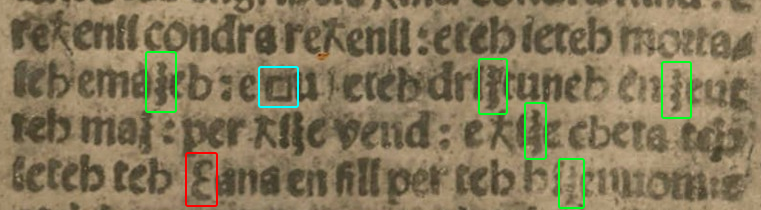
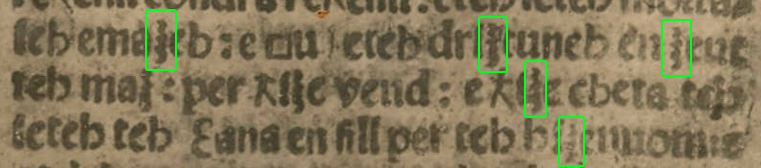
many more pictures

diff --git a/unicode/catholic.html b/unicode/catholic.html
@@ -78,7 +78,7 @@
 	<img src="img/cath/discussion/1555-buzuku-31r-hl.png" style="width:auto">
 	<img src="img/cath/discussion/1555-buzuku-44r-hl.png" style="width:auto">
 	<img src="img/cath/discussion/1555-buzuku-100v-hl.png" style="width:auto">
-	<figcaption>Buzuku (1555), folio 31r, 44r and 100v (left to right). Highlighted only ⟨<span class="misencoded">ξ</span>⟩, ⟨ɛ⟩ and ⟨в⟩. (Image source: BKSH)</figcaption>
+	<figcaption>Buzuku (1555), folio 31r, 44r and 100v (left to right). Highlighted only ⟨<span class="misencoded">ξ</span>⟩. (Image source: BKSH)</figcaption>
 </figure>
 <figure>
 	<img src="img/cath/discussion/1685-bogdani-nt-141-hl.png" style="width:auto">
@@ -86,8 +86,8 @@
 	<figcaption>Bogdani (1685), volume 2, page 141 (left) and page 146 (right), showing how while ⟨λ⟩ looks identical in the Albanian and Greek portions, the Albanian ⟨<span class="misencoded">ξ</span>⟩ and Greek ⟨ξ⟩ look very different. (Image source: BKSH)</figcaption>
 </figure>
 <figure>
-	<img src="img/cath/discussion/1685-bogdani-nt-alphabet.png" style="height: 25em; width: auto">
-	<img src="img/cath/discussion/1895-bashkimi-6.png" style="height: 25em; width: auto">
+	<img src="img/cath/discussion/1685-bogdani-nt-alphabet-hl.png" style="height: 25em; width: auto">
+	<img src="img/cath/discussion/1895-bashkimi-6-hl.png" style="height: 25em; width: auto">
 	<figcaption>Left, one of the last pages of Bogdani (1685), volume 2, calling ⟨<span class="misencoded">ξ</span>⟩ <i>ethe</i>, ⟨λ⟩ <i>λuλa</i>, ⟨ɛ⟩ <i>se</i> and ⟨ȣ⟩ <i>eu</i>. Also note the position in the alphabetical order matches Greek ⟨θ⟩ rather than ⟨ξ⟩. Right, <i>Abetari i qitun prej Shoqniet t’ Bashkimit t’ gjuhës shqype</i> (1895), page 6, comparing the new proposed orthography with the old symbols. (Image source: BKSH)</figcaption>
 </figure>
 <figure>
@@ -95,17 +95,26 @@
 	<figcaption>Domenico Pasi (1896), <i>Disa habere përmi apostollim t’ urats</i>, Shkodër: Catholic College Press, page 3. A <i>z</i> with a hook is employed regularly in bold-face, both in this and other short pamphlets published in the same period. Non-bold text keeps the usual form. (Image source: BKSH)</figcaption>
 </figure>
 <figure>
-	<img src="img/cath/discussion/1882-marcozzi-34.png" style="width:auto; height:7em">
-	<figcaption>Marcozzi (1882: 34). This work is an exceptional case, where the round-based variant is used for lowercase in the case of voiceless <i>th</i>, while the flat-based variant is employed for the voiced <i>dh</i>. Given that the main point of differentiation is still whether the letter is single or double, the round-based variant can be considered a contextual variant. (Image source: BKSH)</figcaption>
+	<img src="img/cath/discussion/1706-dalecce-156.png" style="width: auto; height: 9em">
+	<img src="img/cath/discussion/1845-guagliata-35.png" style="width: auto; height: 9em;">
+	<figcaption>The most common choice for capitalising the double letter was ⟨<span class="misencoded">Ξξ</span>⟩, here Da Lecce (1706: 156). However, ⟨<span class="misencoded">ΞΞ</span>⟩ is also attested, here Guagliata (1845: 35). (Image source: Google Books)</figcaption>
+</figure>
+<figure>
+	<img src="img/cath/discussion/1882-marcozzi-34.png" style="width:auto; height:9em">
+	<img src="img/cath/discussion/1882-marcozzi-358.png" style="width:auto; height:9em">
+	<img src="img/cath/discussion/1882-marcozzi-375.png" style="width:auto; height:9em">
+	<figcaption>Marcozzi (1882: 34, 358, 375). [Fixed caption...], where the round-based variant is used for lowercase in the case of voiceless <i>th</i>, while the flat-based variant is employed for the voiced <i>dh</i>. Given that the main point of differentiation is still whether the letter is single or double, the round-based variant can be considered a contextual variant. In capital forms, both phonemes use the same glyph, capitalising both letters for <i>Th</i>. (Image source: BKSH)</figcaption>
 </figure>
 <figure>
 	<img src="img/cath/discussion/1895-bashkimi-8.png" style="width:auto; height:7em">
 	<figcaption><i>Bashkimi</i> primer (1895: 8). An instance of cursive ⟨<span class="misencoded">ξ</span>⟩, appearing like a striked <i>z</i> with a hook. (Image source: BKSH)</figcaption>
 </figure>
 <figure>
-	<img src="img/cath/discussion/1870-crasnich.png" style="height:7em; width:auto">
-	<figcaption>Francesco Rossi da Montalto, Gaspare Crasnich, ed. (1870), <i>Il vangelo di S. Matteo, tradotto dalla volgata nel dialetto albanese ghego scutarino</i>, London, uses a regularised and 1:1 phonetic alphabet to represent the dialect of Shkodër, using the alphabet in use in the city as a starting gound. The italic vs. non-italic distinction used to differentiate <i>e</i> from <i>ë</i> is carried over from the other Gospel translations made in London, and the same concept is used to differentiate <i>g</i> from <i>gj</i> and <i>o</i> from <i>œ</i>. This practice cannot be seen elsewhere from the London Gospels. (Image source: British Bible Society)</figcaption>
+	<img src="img/cath/discussion/1895-jungg-0.png" style="width: auto; height: 9em;">
+	<img src="img/cath/discussion/1900-pesmdhet-0.png" style="width: auto; height: 9em;">
+	<figcaption>Title pages of Jungg (1895) and <i>Pesmdhet biseda</i> (1900), showing an alternative capital form, only found in headers. The rest of the book contains the  usual round-bowled form. (Image source: Google Books, BKSH)</figcaption>
 </figure>
+<h2>Figures in the separate UTN</h2>
 <figure>
 	<img src="img/cath/discussion/vjed-01.png" style="height:10em; width:auto">
 	<img src="img/cath/discussion/vjed-02.jpg" style="height:10em; width:auto">
@@ -115,6 +124,10 @@
 	<img src="img/cath/discussion/1618-budi-180a-hl.png" style="width:auto">
 	<img src="img/cath/discussion/1618-budi-194a-hl.png" style="width:auto">
 	<figcaption>Budi (1618: 184a) on a single occasion, uses a particular five-pointed symbol to represend <i>zh</i> /ʒ/. In every other occasion, he uses ⟨X⟩ (here for example, p. 194a, in the same sentence ⟨giξξe <b>X</b>ȣem epegaam⟩ <i>gjithë <b>zh</b>yem e pëgām</i>). Due to the rarity of the glyph, we do not request a codepoint for it. The dingbat U+273C <small>OPEN CENTRE TEARDROP-SPOKED ASTERISK</small> ✼ or any other ad hoc encoding could be employed. (Image source: BKSH)</figcaption>
+</figure>
+<figure>
+	<img src="img/cath/discussion/1870-crasnich.png" style="height:7em; width:auto">
+	<figcaption>Francesco Rossi da Montalto, Gaspare Crasnich, ed. (1870), <i>Il vangelo di S. Matteo, tradotto dalla volgata nel dialetto albanese ghego scutarino</i>, London, uses a regularised and 1:1 phonetic alphabet to represent the dialect of Shkodër, using the alphabet in use in the city as a starting gound. The italic vs. non-italic distinction used to differentiate <i>e</i> from <i>ë</i> is carried over from the other Gospel translations made in London, and the same concept is used to differentiate <i>g</i> from <i>gj</i> and <i>o</i> from <i>œ</i>. This practice cannot be seen elsewhere from the London Gospels. (Image source: British Bible Society)</figcaption>
 </figure>
 <figure>
 	<img src="img/cath/discussion/1555-buzuku-11v-hl.png" style="width: auto;">
@@ -131,9 +144,6 @@
 	<img src="img/cath/discussion/1555-buzuku-26v-hl.png" style="width: auto; height: 7em;">
 	<img src="img/cath/discussion/1743-kazazi-46-hl.png" style="width: auto; height: 7em;">
 	<figcaption>An instance of ⟨ç⟩ in Buzuku (f. 26v), ⟨ћi ћi<span class="misencoded">ξ</span>e ſpirt e<b>çç</b>en: encheſo iete per tuu⟩ <i>qi gjithë shpirt e<b>c</b>ën ën këso jetë për tȳ</i> (Image source: BKSH). The letter ⟨ç⟩ is also found in later works, here Kazazi (1743: 46), ⟨etæna<b>ç</b>moin Turt⟩ <i>e të na <b>ç</b>mojn t urt</i> <sup class="misencoded">spacing intentional</sup>, where it however stands for /t͡ʃ/, as it does in the modern alphabet. (Image source: Google Books)</figcaption>
-</figure>
-<figure>
-	
 </figure>
 <h2>Table with comparisons</h2>
 These are some conveniently gathered images of the four main Catholic symbols throughout the centuries. The sources they are taken from are below. All are from BKSH, except for the letter of the elders of Gashi, from Wikimedia Commons.
